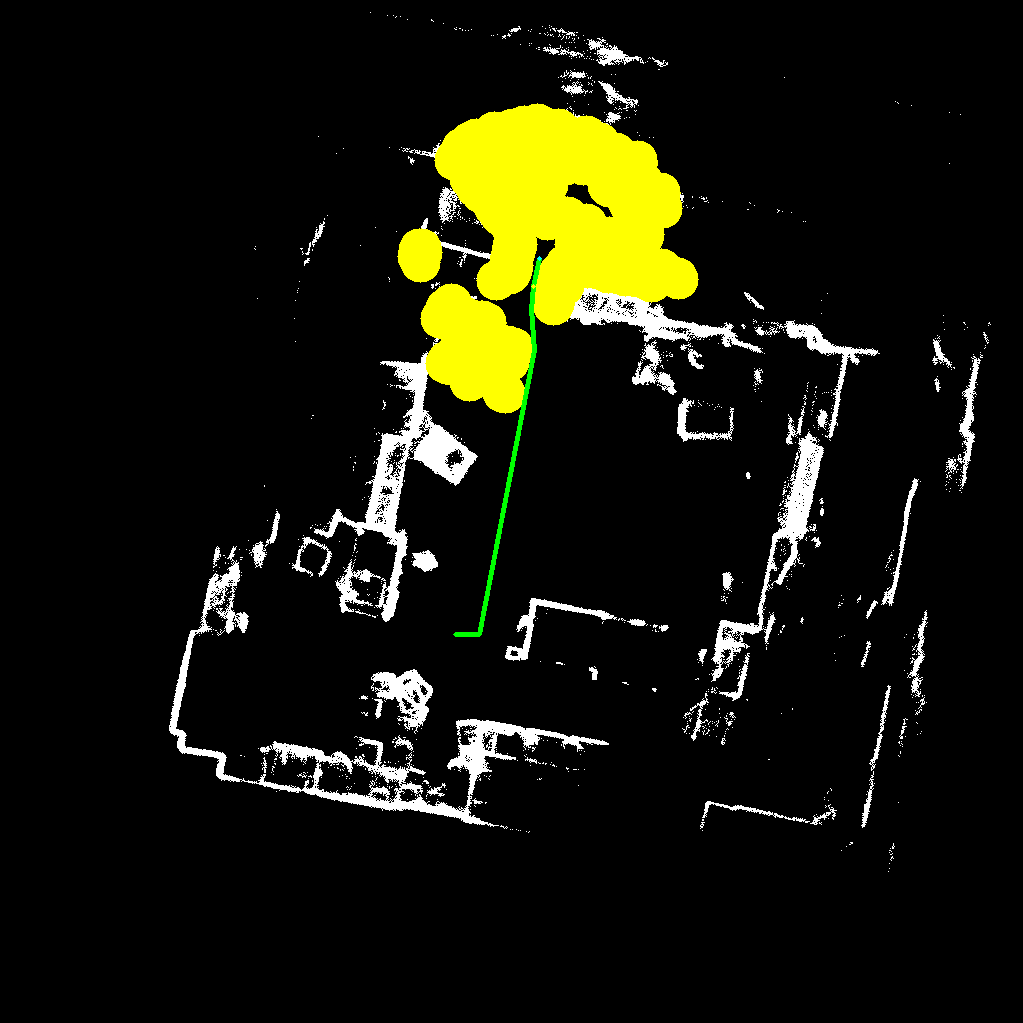
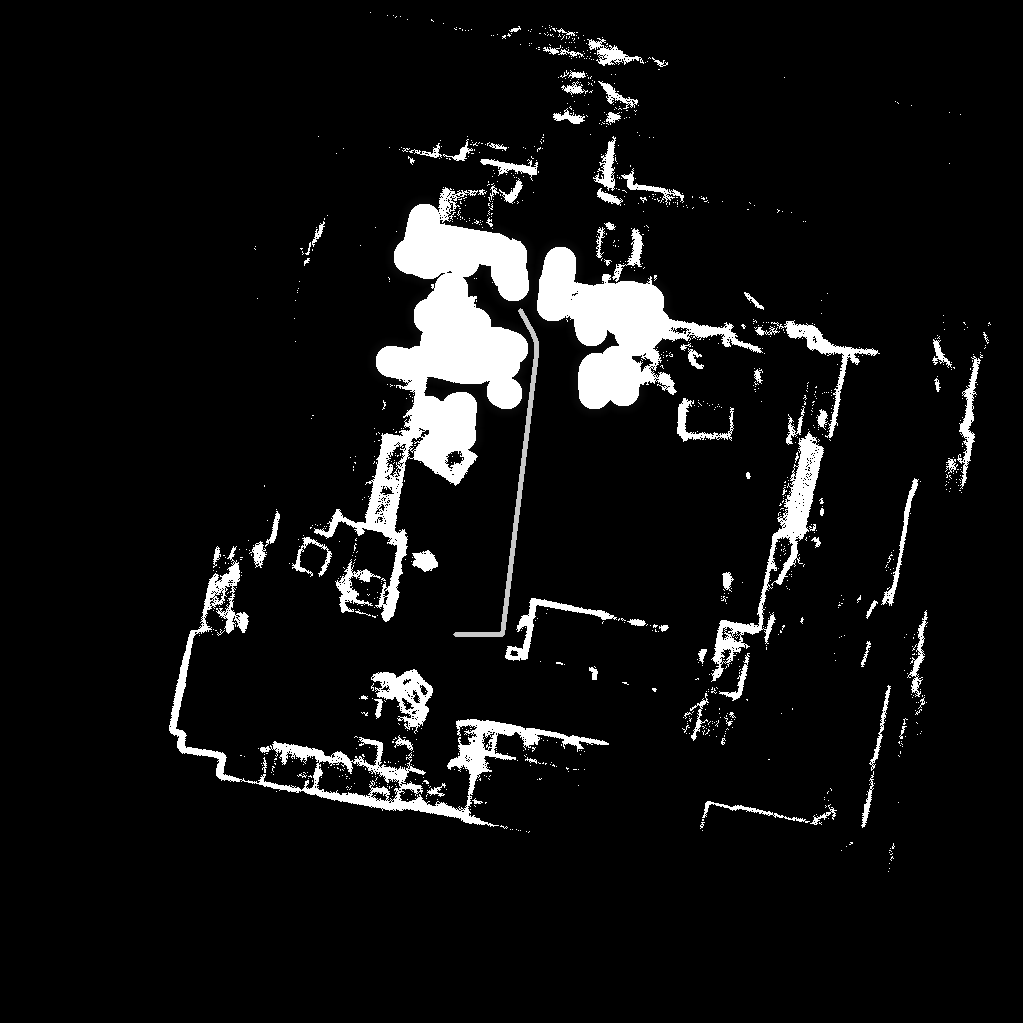
faster route

Changed region(s): [[0.3636, 0.0909, 0.697, 0.6364]]

diff --git a/src/route.cpp b/src/route.cpp
@@ -4,7 +4,7 @@
 using namespace std;
 using namespace cv;
 
-Mat img;
+Mat imgObs;
 Mat imgFixed;
 
 struct Status
@@ -37,10 +37,10 @@ struct myless : public binary_function<Point, Point, bool>
     }
 };
 
-bool isObstacle(Point u)
+int getObstacleLevel(Point u)
 {
-    Scalar res = img.at<Vec3b>(u.x, u.y);
-    return res[0] || res[1] || res[2];
+    uchar res = imgObs.at<uchar>(u.x, u.y);
+    return res;
 }
 
 vector<Point> getNeighbors(Point x, bool filterObstacle = true)
@@ -52,7 +52,7 @@ vector<Point> getNeighbors(Point x, bool filterObstacle = true)
         Point neighbor = x + dir;
         if (neighbor.x < 0 || neighbor.x >= picSize || neighbor.y < 0 || neighbor.y >= picSize)
             continue;
-        if (filterObstacle && isObstacle(neighbor))
+        if (filterObstacle && getObstacleLevel(neighbor) == 0xff)
             continue;
         neighbors.push_back(neighbor);
     }
@@ -63,7 +63,6 @@ int costMap[picSize][picSize];
 void setTarget(Point target)
 {
     auto timeStart = chrono::system_clock::now();
-    imgFixed.copyTo(img);
     fill(&costMap[0][0], &costMap[0][0] + picSize * picSize, 1e9);
 
     costMap[target.x][target.y] = 0;
@@ -90,17 +89,17 @@ void setTarget(Point target)
 vector<Point> astar(Point start, Point end)
 {
     auto timeStart = chrono::system_clock::now();
-    if (isObstacle(end))
+    if (getObstacleLevel(end) == 255)
         return {};
 
-    if (isObstacle(start))
+    if (getObstacleLevel(start) == 255)
     {
         for (int dt = 1; dt <= 3; dt++)
         {
             for (int di = -dt; di <= dt; di++)
                 for (int dj = -dt; dj <= dt; dj++)
                 {
-                    if (!isObstacle({start.x + di, start.y + dj}))
+                    if (getObstacleLevel({start.x + di, start.y + dj}) < 255)
                     {
                         start.x += di;
                         start.y += dj;
@@ -148,7 +147,7 @@ finish:;
             }
             vis.insert(neighbor);
 
-            float gCost = current.g + 1; // 假设每一步的成本为1
+            float gCost = current.g + getObstacleLevel(neighbor);
             float hCost = costMap[neighbor.x][neighbor.y];
 
             openSet.emplace(neighbor, gCost, hCost);
@@ -178,7 +177,7 @@ bool line_of_sight(const Point &p1, const Point &p2)
             cout << "error line_of_sight" << flush;
             return false;
         }
-        if (isObstacle({x0, y0}))
+        if (getObstacleLevel({x0, y0}))
             return false; // 障碍物
         if (x0 == x1 && y0 == y1)
             break;
@@ -197,9 +196,32 @@ bool line_of_sight(const Point &p1, const Point &p2)
     return true;
 }
 
+void drawCircleObstacle(int x, int y, int r, int extr)
+{
+    r += extr;
+    for (int i = -r; i <= r; i++)
+        for (int j = -r; j <= r; j++)
+        {
+            int nx = x + i;
+            int ny = y + i;
+            if (nx < 0 || ny < 0 || nx >= imgObs.rows || ny >= imgObs.cols)
+                continue;
+
+            int curr = hypot(i, j);
+            if (curr <= r - extr)
+            {
+                imgObs.at<uchar>(x + i, y + j) = 0xff;
+            }
+            else if (curr <= r)
+            {
+                imgObs.at<uchar>(x + i, y + j) = max(imgObs.at<uchar>(x + i, y + j), uchar(r - curr));
+            }
+        }
+}
+
 void addObstacle(deque<pcl::PointXYZ> &obstacle)
 {
-    map<pair<int, int>, int> pointcnt;
+    unordered_map<int, int> pointcnt;
     mtx.lock();
     cout << obstacle.size() << '\t';
     for (int i = 0; i < obstacle.size(); i++)
@@ -208,16 +230,20 @@ void addObstacle(deque<pcl::PointXYZ> &obstacle)
         if (p.z > 0.6)
             continue;
         auto [x, y] = trans(p.x, p.y);
-        pointcnt[{x, y}]++;
+        pointcnt[(x << 16) | y]++;
     }
     mtx.unlock();
 
-    for (auto &[p, cnt] : pointcnt)
+    vector<pair<int,int>> vpointcnt(pointcnt.begin(), pointcnt.end());
+
+#pragma omp parallel for
+    for (auto &[p, cnt] : vpointcnt)
     {
-        if (cnt < 2)
+        if (cnt < 4)
             continue;
-        auto [x, y] = p;
-        drawCircle(img, x, y, 20, {0, 255, 255});
+        int x = p >> 16;
+        int y = p & ((1 << 16) - 1);
+        drawCircleObstacle(x, y, 15, 10);
     }
 }
 
@@ -226,42 +252,43 @@ double route_planning(Point start, Point end, deque<pcl::PointXYZ> &realtimeObst
     // swap(start.x, start.y);
     // swap(end.x, end.y);
     // cout << "running A*: (" << start.x << "," << start.y << ") -> (" << end.x << "," << end.y << ")" << endl;
-    imgFixed.copyTo(img);
+    imgFixed.copyTo(imgObs);
 
+    clock_start();
     addObstacle(realtimeObstacle);
-    clock_t s = clock();
     vector<Point> path = astar(start, end);
 
-    cout << "a star use time" << (clock() - s) * 1. / CLOCKS_PER_SEC << '\t' << flush;
+    cout << "a star use time" << get_clock_time() << '\t' << flush;
 
     if (path.size() < 2)
     {
         cout << "not find path\t" << flush;
-        imwrite("../not find path.png", img);
+        imwrite("../not find path.png", imgObs);
         return std::nan("");
     }
 
     vector<Point> fixedPath;
-    auto cur = path.front();
-    fixedPath.push_back(cur);
-    while (cur != path.back())
+    auto curit = path.begin();
+    fixedPath.push_back(*curit);
+    while (curit != path.end())
     {
         bool fg = false;
-        for (auto it = path.rbegin(); it != path.rend(); it++)
+        for (auto it = path.rbegin(); *it != *curit; it++)
         {
-            if (line_of_sight(cur, *it))
+            if (line_of_sight(*curit, *it))
             {
                 fixedPath.push_back(*it);
-                cur = *it;
+                curit = it.base();
                 fg = true;
                 break;
             }
         }
         if (fg)
+        {
             continue;
-        cout << "fix failed\t" << flush;
-        fixedPath.push_back(path.back());
-        break;
+        }
+        fixedPath.push_back(*curit);
+        curit++;
     }
     path = fixedPath;
 
@@ -273,20 +300,18 @@ double route_planning(Point start, Point end, deque<pcl::PointXYZ> &realtimeObst
     for (auto p : path)
     {
         swap(p.x, p.y);
-        line(img, lastp, p, {0, 255, 0}, 3);
+        line(imgObs, lastp, p, 200, 3);
         lastp = p;
     }
-
-    drawCircle(img, path[0].x, path[0].y, 2, {255, 255, 0});
-    drawCircle(img, path[1].x, path[1].y, 2, {0, 255, 255});
     static int cnt;
     if (cnt++ % 10 == 0)
-        imwrite("../a.png", img);
+        imwrite("../a.png", imgObs);
 
     return atan2(path[1].y - path[0].y, path[1].x - path[0].x);
 }
 
 void initRoute(const string &obstaclePath)
 {
-    imgFixed = imread(obstaclePath);
+    imgFixed = imread(obstaclePath, 0);
+    imgFixed.copyTo(imgObs);
 }

diff --git a/src/main.cpp b/src/main.cpp
@@ -18,15 +18,15 @@ vector<Point> dest{
 
 double getfps()
 {
-    static thread_local deque<int> q;
-    auto cur = clock();
+    static thread_local deque<std::chrono::_V2::system_clock::time_point> q;
+    auto cur = clock_start();
     q.push_back(cur);
 
-    while (cur - q.front() > CLOCKS_PER_SEC)
+    while (std::chrono::duration_cast<std::chrono::milliseconds>(cur - q.front()).count() > 1000)
         q.pop_front();
     if (q.size() == 1)
         return 0;
-    return q.size() * CLOCKS_PER_SEC * 1. / (cur - q.front());
+    return q.size() / (std::chrono::duration_cast<std::chrono::milliseconds>(cur - q.front()).count() / 1000.);
 }
 
 double x, y, t, score;

diff --git a/src/tools.cpp b/src/tools.cpp
@@ -1,4 +1,5 @@
 #include "tools.h"
+using namespace std;
 
 inline double minx = 1e9, miny = 1e9, maxx = -1e9, maxy = -1e9;
 inline double rate;
@@ -47,3 +48,14 @@ void initPCD(pcl::PointCloud<pcl::PointXYZ>::Ptr ptr, int picSize)
 }
 
 
+thread_local std::chrono::_V2::system_clock::time_point start_time;
+
+std::chrono::_V2::system_clock::time_point clock_start()
+{
+    return start_time = chrono::system_clock::now();
+}
+
+double get_clock_time()
+{
+    return chrono::duration_cast<chrono::duration<double>>(chrono::system_clock::now() - start_time).count();
+}

diff --git a/include/tools.h b/include/tools.h
@@ -3,9 +3,12 @@
 #include <opencv2/opencv.hpp>
 #include <pcl/point_types.h>
 #include <pcl/io/pcd_io.h>
+#include <chrono>
 
 std::pair<int, int> trans(double x, double y);
 
 std::pair<double, double> invtrans(double x, double y);
 void drawCircle(cv::Mat &img, int x, int y, int r, cv::Vec3b color);
 void initPCD(pcl::PointCloud<pcl::PointXYZ>::Ptr ptr, int picSize);
+std::chrono::_V2::system_clock::time_point clock_start();
+double get_clock_time();
